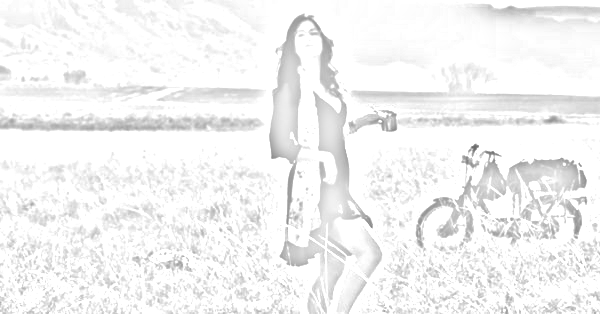
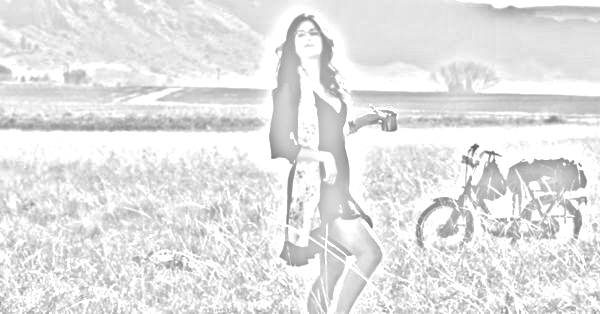
pencil-sketch

diff --git a/test/sketch.py b/test/sketch.py
@@ -9,7 +9,7 @@ def greyscale(rgb):
     return np.dot(rgb[...,:3],[0.299,0.587,0.114])
 
 def dodge(front,back):
-    result=front*255/(255-back)
+    result=front*230/(255-back)
     result[result>255]=255
     result[back==255]=255
     return result.astype('uint8')
